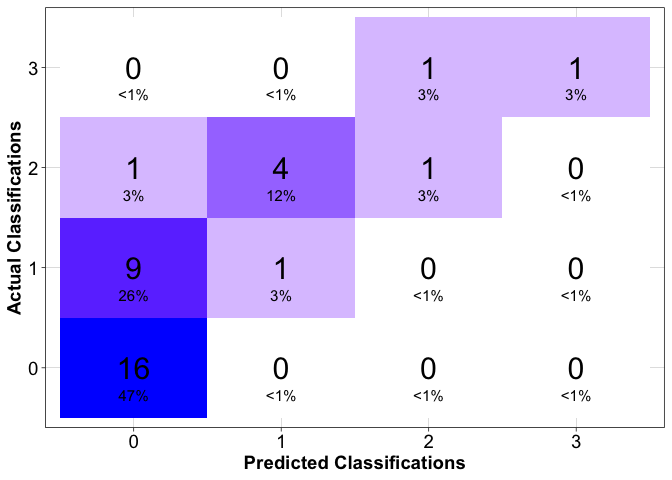
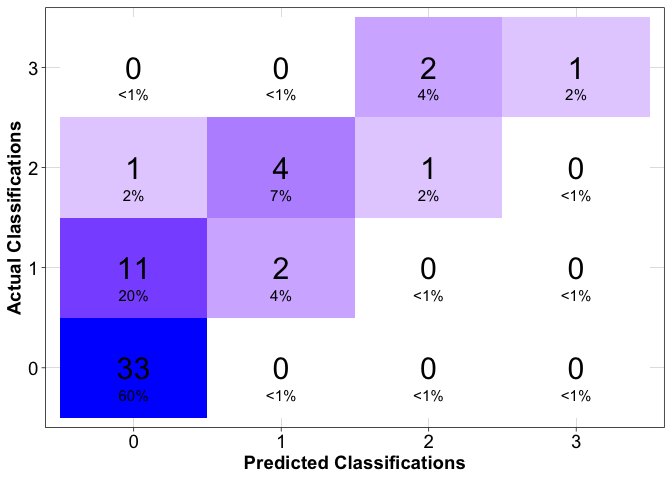
Adding new predictions 2024-05-31; updated README with results

diff --git a/README.md b/README.md
@@ -72,7 +72,7 @@ predictions <- read_forecast(year = "2024") |>
 glimpse(predictions)
 ```
 
-    ## Rows: 61
+    ## Rows: 90
     ## Columns: 19
     ## $ version             <chr> "v0.3.0", "v0.3.0", "v0.3.0", "v0.3.0", "v0.3.0", …
     ## $ ensemble_n          <dbl> 10, 10, 10, 10, 10, 10, 10, 10, 10, 10, 10, 10, 10…
@@ -107,7 +107,7 @@ glimpse(predictions)
     ## # A tibble: 1 × 1
     ##   accuracy
     ##      <dbl>
-    ## 1    0.559
+    ## 1    0.673
 
 #### Closure-level (Class 3) Predictions
 
@@ -128,7 +128,7 @@ glimpse(predictions)
     ## # A tibble: 1 × 7
     ##      tp    fp    tn    fn precision sensitivity specificity
     ##   <int> <int> <int> <int>     <dbl>       <dbl>       <dbl>
-    ## 1     1     0    32     1         1         0.5           1
+    ## 1     1     0    52     2         1       0.333           1
 
 ## 2023 Season Results
 
@@ -272,4 +272,4 @@ predictions <- read_forecast(year = "2023")
 
 ### Last Updated
 
-    ## [1] "2024-05-29"
+    ## [1] "2024-05-31"
